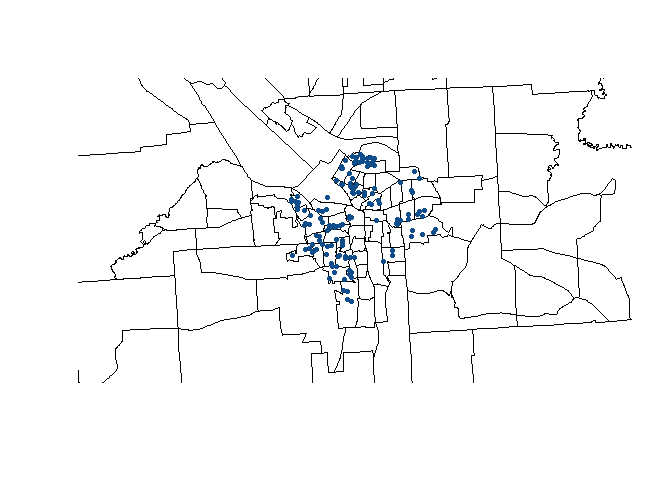
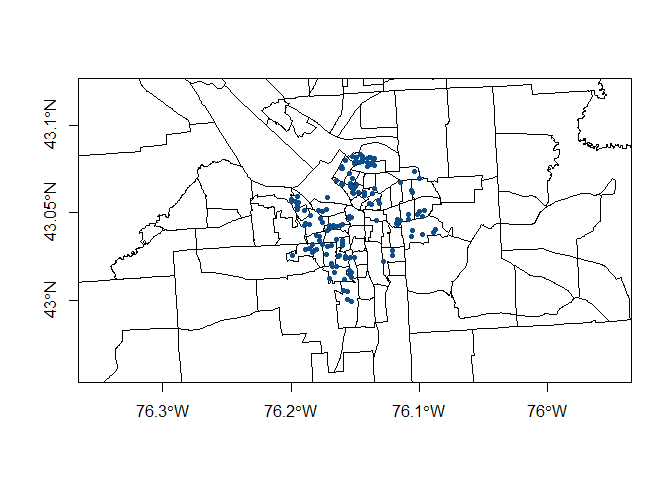
better maps

diff --git a/Lab5/Lab5.md b/Lab5/Lab5.md
@@ -96,7 +96,9 @@ plot(shapes)
 #making zoom to the plot 
 plot(shapes
      , xlim=c(min.lon, max.lon) 
-     , ylim=c(min.lat, max.lat) ) 
+     , ylim=c(min.lat, max.lat)
+     , axes = T
+     ) 
   points(dat, pch=20, col="dodgerblue4")
 ```
 
@@ -211,7 +213,8 @@ proj4string(crime) <- CRS("+proj=longlat +datum=WGS84") #fixing the  "+proj=long
 
 plot(shapes
      , xlim=c(min.lon, max.lon) 
-     , ylim=c(min.lat, max.lat) ) 
+     , ylim=c(min.lat, max.lat)
+     , axes = T) 
   points(crime
          , cex = .8
          , pch=20
@@ -285,25 +288,30 @@ shapes@data$Crimes <- x$Crimes[these.order]
 #formatting the colors
 #summary(shapes@data$Crimes) #45 levels
 f.color <- colorRampPalette( c("white", "light grey","dodgerblue4"))
-colors <- f.color( 11 ) # number of colors
+colors <- f.color( 20 ) # number of colors
 
 #dividing the ranked data into groups and adding color
-shape.colors <- cut( rank(shapes@data$Crimes), breaks=11, labels=colors)
+shape.colors <- cut( rank(shapes@data$Crimes), breaks=20, labels=colors)
 shape.colors <- as.character(shape.colors)
 
 #an alernative way of making colors is to fix the buildin palette of colors like this: palette(colors) and then in the plot just reference a number or a factor and the palette will be automatically used.
 
-#plotting a graph to show crime density
-plot(shapes, col=shape.colors, main="Crimes in Syracuse"
-     , xlim=c(min.lon, max.lon) 
-     , ylim=c(min.lat, max.lat)) 
-legend( "bottomleft", bg="white"
-        , cex=0.7
-        , legend= c("Highest", "Median", "Lowest")
-        , fill=rev(c("white", "light grey","dodgerblue4"))
-        , box.col="white"
-        , title="Crime Rank" 
-        )
+#Using layout to output two plots next to each other
+layout(matrix(c(rep(1,12), 3, 2, 3), nrow=3, ncol=5), widths=c(5,1))
+
+#plotting the graphof crime density
+  par(mar= c(2,4,3,1), oma=c(1,1,1,1), las=1)
+  plot(shapes, col=shape.colors, main="Crimes in Syracuse"
+       , xlim=c(min.lon, max.lon) 
+       , ylim=c(min.lat, max.lat)
+       , axes = T
+       , cex.axis=.8
+       ) 
+#plotting a second image as the  legend
+  par(mar=c(0,1,2,4))
+  image(matrix(1:20, ncol = 20, nrow= 1), col=colors, axes=F)
+  title(main="Rate", line = 1, outer = F, cex.main = 1, adj = 0)
+  axis(4, at= seq(0,1, by=1/4), cex.axis = 1, labels= c("High", "",  "Mid", "", "Low"))
 ```
 
 ![](Lab5_files/figure-markdown_github/unnamed-chunk-3-2.png)
